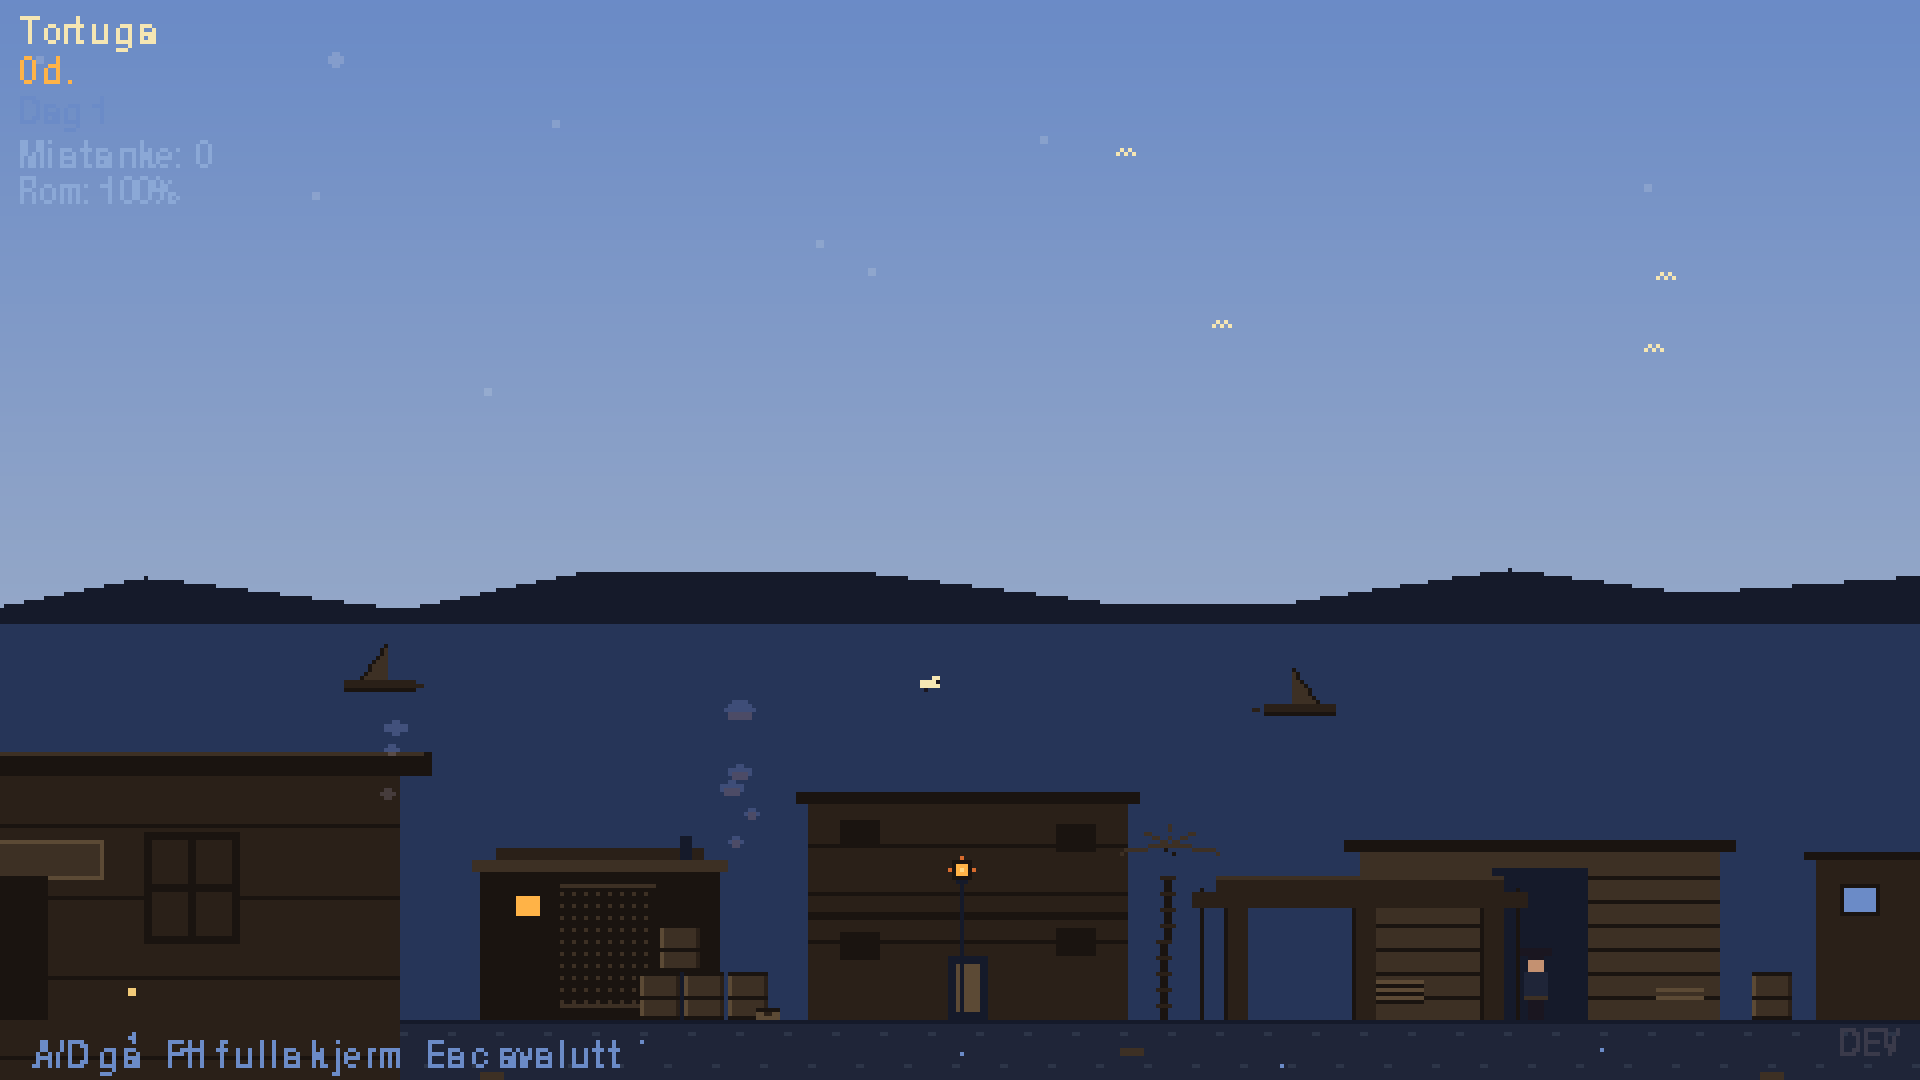
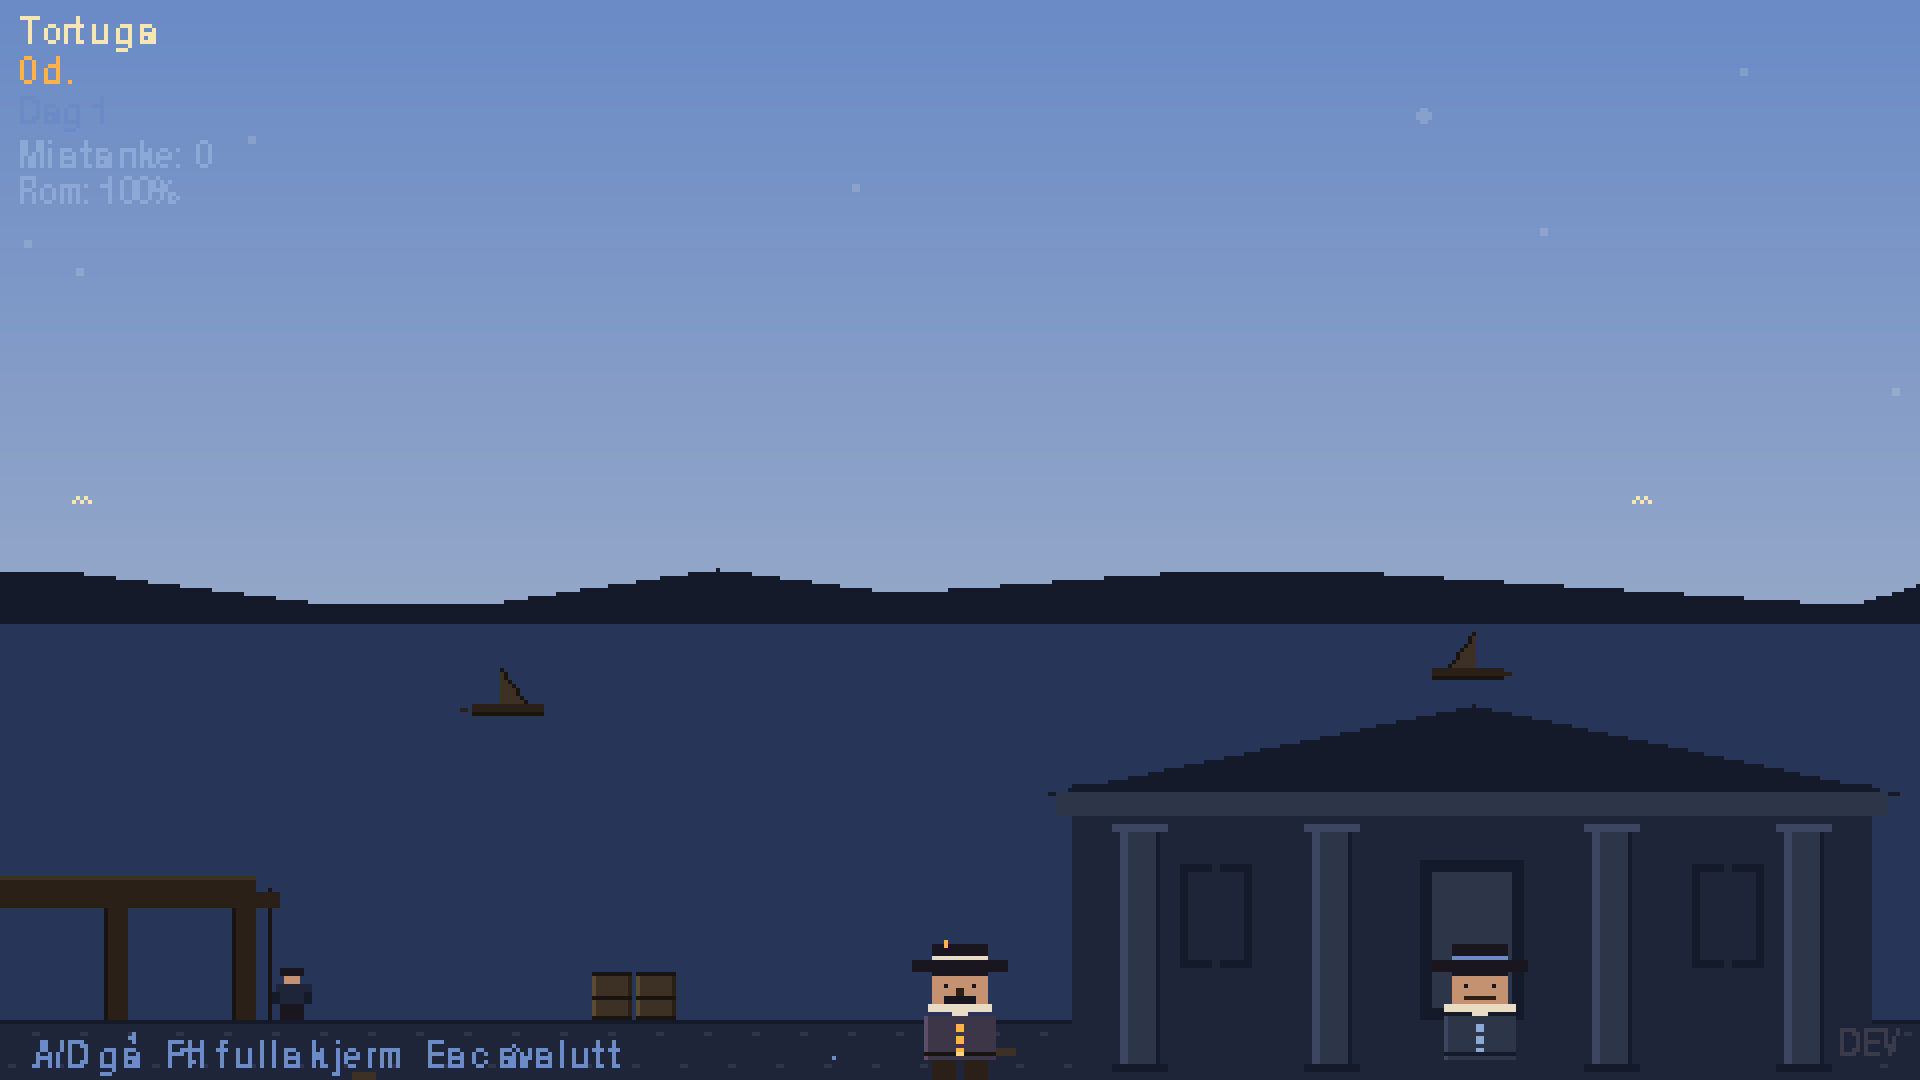
Fase 2.6 sub-steg 5: spiller- + NPC-sprites til 24x40
Player og Hawkins re-tegnet fra 10x20 (200 piksler) til 24x40 (960
piksler). 4.8x utvidet pikselbudsjett brukt til ekte ansikts-detalj
(oeyne, nese, skjegg/snurrebart), klesfolder, knapperekke, belte med
spenne, bukser og stoevler med varm/kald-aksent.

Player bruker varm-paletten (HAT/COAT/EMBER) — pirat-energi.
Hawkins bruker stein-paletten (STONE_MID/LIGHT/BRIGHT/HAT) — respektabel
boersmester-autoritet. Tematisk taverna-vs-boershus-split forsterket
direkte i karakter-fargene.

Test-pakken (1057) groenn — kun sprite-stoerrelse-konstantene endres,
ingen Y-koordinater.

tools/fase_2_6_assess.py oppdatert til aa sentrere kameraet paa
spilleren slik at den nye spriten er synlig i screenshots.

Sub-steg 5 ferdig. Gjennstaaende: sub-steg 6 (bygnings-sprite-detalj-bump),
7-9 (Port Royal/Havana/Nassau remaster), 10 (post_fx-tuning + HUD-font),
11 (merge til main).

diff --git a/entities/player.py b/entities/player.py
@@ -4,6 +4,11 @@ Fase 1: placeholder-sprite (tricorn-hatt + frakk) tegnet prosedyrelt med
 master-paletten. Erstattes av et håndtegnet sprite (og walk-animasjon) i
 en senere fase. Spillerens posisjon holdes som float internt; cast til int
 skjer ved rendering.
+
+Fase 2.6 sub-steg 5: sprite-bump 10×20 → 24×40 med utvidet pikselbudsjett
+(200 → 960 piksler). Detalj-tillegg: tricorn-brem, hatt-bånd, ansikt med
+øyne+nese+skjegg, frakk-flikk + knapper + belte, støvler. Fortsatt ren
+master-palett.
 """
 
 from __future__ import annotations
@@ -14,40 +19,73 @@ import constants
 
 
 #: Hvor høyt sprite-rektangelet er. Breidde beregnes fra innholdet.
-PLAYER_SPRITE_HEIGHT = 20
-PLAYER_SPRITE_WIDTH = 10
+PLAYER_SPRITE_HEIGHT = 40
+PLAYER_SPRITE_WIDTH = 24
 
 
 def _make_player_sprite() -> pygame.Surface:
-    """Tegn placeholder-sprite for spilleren.
+    """Tegn placeholder-sprite for spilleren (Fase 2.6 — 24×40).
 
-    Komposisjon (fra topp):
-    - Tricorn-hatt (mørkeste farge, bred silhuett)
-    - Ansikt (hud)
-    - Krage (cream)
-    - Frakk (koldfiolett)
-    - Ben (samme som hatt for silhuett-effekt)
+    Pikselbudsjett 960. Komposisjon (fra topp, alt i master-paletten):
+    - Tricorn-hatt med bred brem, krone, mørkt bånd
+    - Ansikt med øyne, nese-skygge, skjegg
+    - Krage og skjorte-V
+    - Frakk med knapperekke, belte, frakk-fald
+    - Bukser + støvler med varm kontrast
     """
     w, h = PLAYER_SPRITE_WIDTH, PLAYER_SPRITE_HEIGHT
     surf = pygame.Surface((w, h)).convert()
-    # Colorkey = magenta (en farge som IKKE finnes i paletten)
     ck = (255, 0, 255)
     surf.fill(ck)
 
-    # Hatt: bred tricorn-silhuett øverst
-    pygame.draw.rect(surf, constants.COLOR_HAT, (0, 0, w, 3))           # brem
-    pygame.draw.rect(surf, constants.COLOR_HAT, (2, 1, w - 4, 2))       # krone
-    # Ansikt
-    pygame.draw.rect(surf, constants.COLOR_SKIN, (3, 3, w - 6, 4))
-    # Krage (lyst)
-    pygame.draw.rect(surf, constants.COLOR_SHIRT, (3, 7, w - 6, 1))
-    # Frakk
-    pygame.draw.rect(surf, constants.COLOR_COAT, (2, 8, w - 4, 7))
-    # Anstrøk lysere frakk-side (venstre) for dimensjon
-    pygame.draw.rect(surf, (92, 78, 104), (2, 8, 1, 7))
-    # Ben
-    pygame.draw.rect(surf, constants.COLOR_HAT, (3, 15, 2, 5))
-    pygame.draw.rect(surf, constants.COLOR_HAT, (5, 15, 2, 5))
+    # ---- Hatt (y=0..7) ----
+    # Tricorn-brem, bred silhuett
+    pygame.draw.rect(surf, constants.COLOR_HAT, (0, 5, w, 3))
+    # Krone — smal pyramide
+    pygame.draw.rect(surf, constants.COLOR_HAT, (5, 1, w - 10, 4))
+    # Hatt-bånd (lysere shirt-tone for kontrast)
+    pygame.draw.rect(surf, constants.COLOR_SHIRT, (5, 4, w - 10, 1))
+    # Plumet (lysere på toppen)
+    pygame.draw.rect(surf, constants.COLOR_LANTERN, (8, 0, 1, 2))
+
+    # ---- Ansikt (y=8..15) ----
+    pygame.draw.rect(surf, constants.COLOR_SKIN, (5, 8, w - 10, 8))
+    # Skygge under hatt
+    pygame.draw.rect(surf, constants.COLOR_HAT, (5, 8, w - 10, 1))
+    # Øyne
+    pygame.draw.rect(surf, constants.COLOR_HAT, (8, 11, 1, 1))
+    pygame.draw.rect(surf, constants.COLOR_HAT, (15, 11, 1, 1))
+    # Nese
+    pygame.draw.rect(surf, constants.COLOR_WOOD_DARK, (11, 12, 2, 2))
+    # Skjegg (under munn)
+    pygame.draw.rect(surf, constants.COLOR_HAT, (8, 14, 8, 2))
+
+    # ---- Krage og skjorte (y=16..18) ----
+    pygame.draw.rect(surf, constants.COLOR_SHIRT, (4, 16, w - 8, 2))
+    pygame.draw.rect(surf, constants.COLOR_SHIRT, (10, 18, 4, 1))  # V-snitt
+
+    # ---- Frakk (y=18..30) ----
+    pygame.draw.rect(surf, constants.COLOR_COAT, (3, 19, w - 6, 11))
+    # Lysere venstre side (lys fra venstre — kommer fra måne i Tortuga)
+    pygame.draw.rect(surf, (92, 78, 104), (3, 19, 1, 11))
+    # Knapperekke (lanterne-gull mot mørk frakk)
+    for ky in (21, 24, 27):
+        pygame.draw.rect(surf, constants.COLOR_LANTERN, (11, ky, 2, 2))
+    # Belte — mørk stripe
+    pygame.draw.rect(surf, constants.COLOR_WOOD_DARKEST, (3, 28, w - 6, 1))
+    # Belte-spenne (varm gull-aksent)
+    pygame.draw.rect(surf, constants.COLOR_LANTERN_BRIGHT, (11, 28, 2, 1))
+
+    # ---- Bukser (y=30..35) ----
+    pygame.draw.rect(surf, constants.COLOR_WOOD_DARK, (5, 30, 6, 5))
+    pygame.draw.rect(surf, constants.COLOR_WOOD_DARK, (13, 30, 6, 5))
+
+    # ---- Støvler (y=35..40) ----
+    pygame.draw.rect(surf, constants.COLOR_WOOD_DARKEST, (4, 35, 8, 5))
+    pygame.draw.rect(surf, constants.COLOR_WOOD_DARKEST, (12, 35, 8, 5))
+    # Varme støvel-detaljer (snørrebånd / brunlig sølje)
+    pygame.draw.rect(surf, constants.COLOR_EMBER, (6, 36, 1, 1))
+    pygame.draw.rect(surf, constants.COLOR_EMBER, (16, 36, 1, 1))
 
     surf.set_colorkey(ck)
     return surf

diff --git a/entities/npc.py b/entities/npc.py
@@ -14,25 +14,55 @@ import constants
 
 
 def _make_hawkins_sprite() -> pygame.Surface:
-    """Placeholder for Hawkins: tricorn + steingrå frakk (respektabel)."""
-    w, h = 10, 20
+    """Hawkins (Børsmester): tricorn + stein-grå frakk (respektabel autoritet).
+
+    Fase 2.6 sub-steg 5: 24×40 med utvidet pikselbudsjett. Hawkins skiller
+    seg fra spilleren via stein-paletten (kald, autoritær) i stedet for
+    den varme COAT-fiolette frakken — visuell match til Børshusets kalde
+    blå-grå tematikk.
+    """
+    w, h = 24, 40
     surf = pygame.Surface((w, h)).convert()
     ck = (255, 0, 255)
     surf.fill(ck)
 
-    # Hatt
-    pygame.draw.rect(surf, constants.COLOR_HAT, (0, 0, w, 3))
-    pygame.draw.rect(surf, constants.COLOR_HAT, (2, 1, w - 4, 2))
-    # Ansikt
-    pygame.draw.rect(surf, constants.COLOR_SKIN, (3, 3, w - 6, 4))
-    # Krage
-    pygame.draw.rect(surf, constants.COLOR_SHIRT, (3, 7, w - 6, 1))
-    # Frakk – steingrå i stedet for mørk fiolett
-    pygame.draw.rect(surf, constants.COLOR_STONE_MID, (2, 8, w - 4, 7))
-    pygame.draw.rect(surf, constants.COLOR_STONE_LIGHT, (2, 8, 1, 7))
-    # Ben
-    pygame.draw.rect(surf, constants.COLOR_HAT, (3, 15, 2, 5))
-    pygame.draw.rect(surf, constants.COLOR_HAT, (5, 15, 2, 5))
+    # ---- Hatt ----
+    pygame.draw.rect(surf, constants.COLOR_HAT, (0, 5, w, 3))
+    pygame.draw.rect(surf, constants.COLOR_HAT, (5, 1, w - 10, 4))
+    # Hatt-bånd (lysere stone for kontrast — matcher frakken)
+    pygame.draw.rect(surf, constants.COLOR_STONE_LIT, (5, 4, w - 10, 1))
+
+    # ---- Ansikt ----
+    pygame.draw.rect(surf, constants.COLOR_SKIN, (5, 8, w - 10, 8))
+    pygame.draw.rect(surf, constants.COLOR_HAT, (5, 8, w - 10, 1))
+    # Øyne
+    pygame.draw.rect(surf, constants.COLOR_HAT, (8, 11, 1, 1))
+    pygame.draw.rect(surf, constants.COLOR_HAT, (15, 11, 1, 1))
+    # Snurrebart (Hawkins-signatur)
+    pygame.draw.rect(surf, constants.COLOR_WOOD_DARK, (8, 14, 8, 1))
+
+    # ---- Krage og skjorte (hvit krage er børsmester-uniform) ----
+    pygame.draw.rect(surf, constants.COLOR_SHIRT, (3, 16, w - 6, 2))
+    pygame.draw.rect(surf, constants.COLOR_SHIRT, (10, 18, 4, 1))
+
+    # ---- Frakk (stein-grå — kald respektabel) ----
+    pygame.draw.rect(surf, constants.COLOR_STONE_MID, (3, 19, w - 6, 11))
+    pygame.draw.rect(surf, constants.COLOR_STONE_LIGHT, (3, 19, 1, 11))
+    # Sølv-knapper (lys stone i stedet for varm gull)
+    for ky in (21, 24, 27):
+        pygame.draw.rect(surf, constants.COLOR_STONE_BRIGHT, (11, ky, 2, 2))
+    # Belte
+    pygame.draw.rect(surf, constants.COLOR_STONE_DARKEST, (3, 28, w - 6, 1))
+
+    # ---- Bukser (sorte bukser, autoritær) ----
+    pygame.draw.rect(surf, constants.COLOR_STONE_DARK, (5, 30, 6, 5))
+    pygame.draw.rect(surf, constants.COLOR_STONE_DARK, (13, 30, 6, 5))
+
+    # ---- Sko (svarte, blanke — sølv-spenne) ----
+    pygame.draw.rect(surf, constants.COLOR_HAT, (4, 35, 8, 5))
+    pygame.draw.rect(surf, constants.COLOR_HAT, (12, 35, 8, 5))
+    pygame.draw.rect(surf, constants.COLOR_STONE_BRIGHT, (6, 36, 1, 1))
+    pygame.draw.rect(surf, constants.COLOR_STONE_BRIGHT, (16, 36, 1, 1))
 
     surf.set_colorkey(ck)
     return surf

diff --git a/tools/fase_2_6_assess.py b/tools/fase_2_6_assess.py
@@ -55,7 +55,8 @@ def render_village(force_day: bool):
     surf = pygame.Surface((constants.RENDER_WIDTH, constants.RENDER_HEIGHT)).convert()
     for _ in range(120):
         scene.update(0.0166)
-    scene._camera.set_x(120.0)
+    # Sentrer kameraet på spilleren slik at vi ser den nye spriten.
+    scene._center_camera_on_player()
     try:
         scene.draw(surf)
     except Exception as exc:
